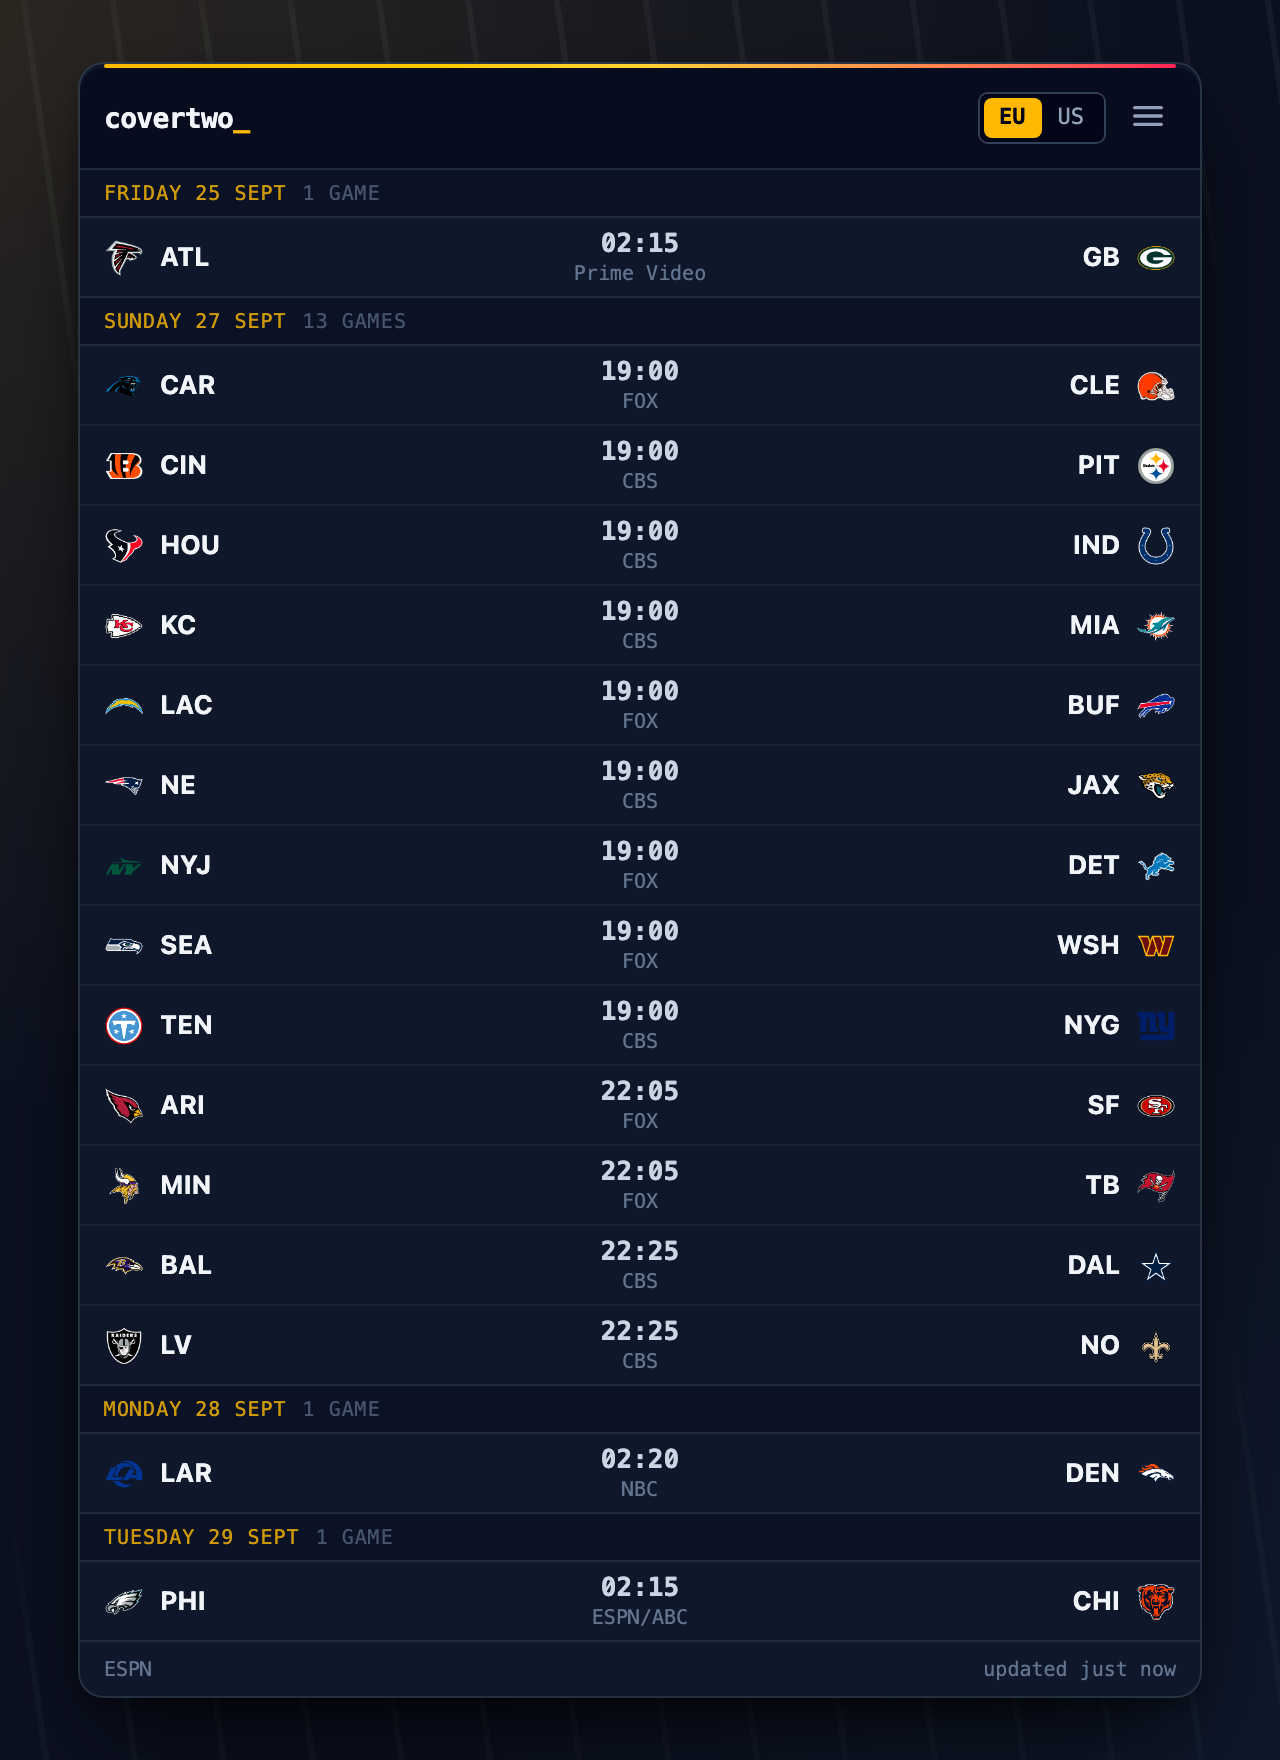
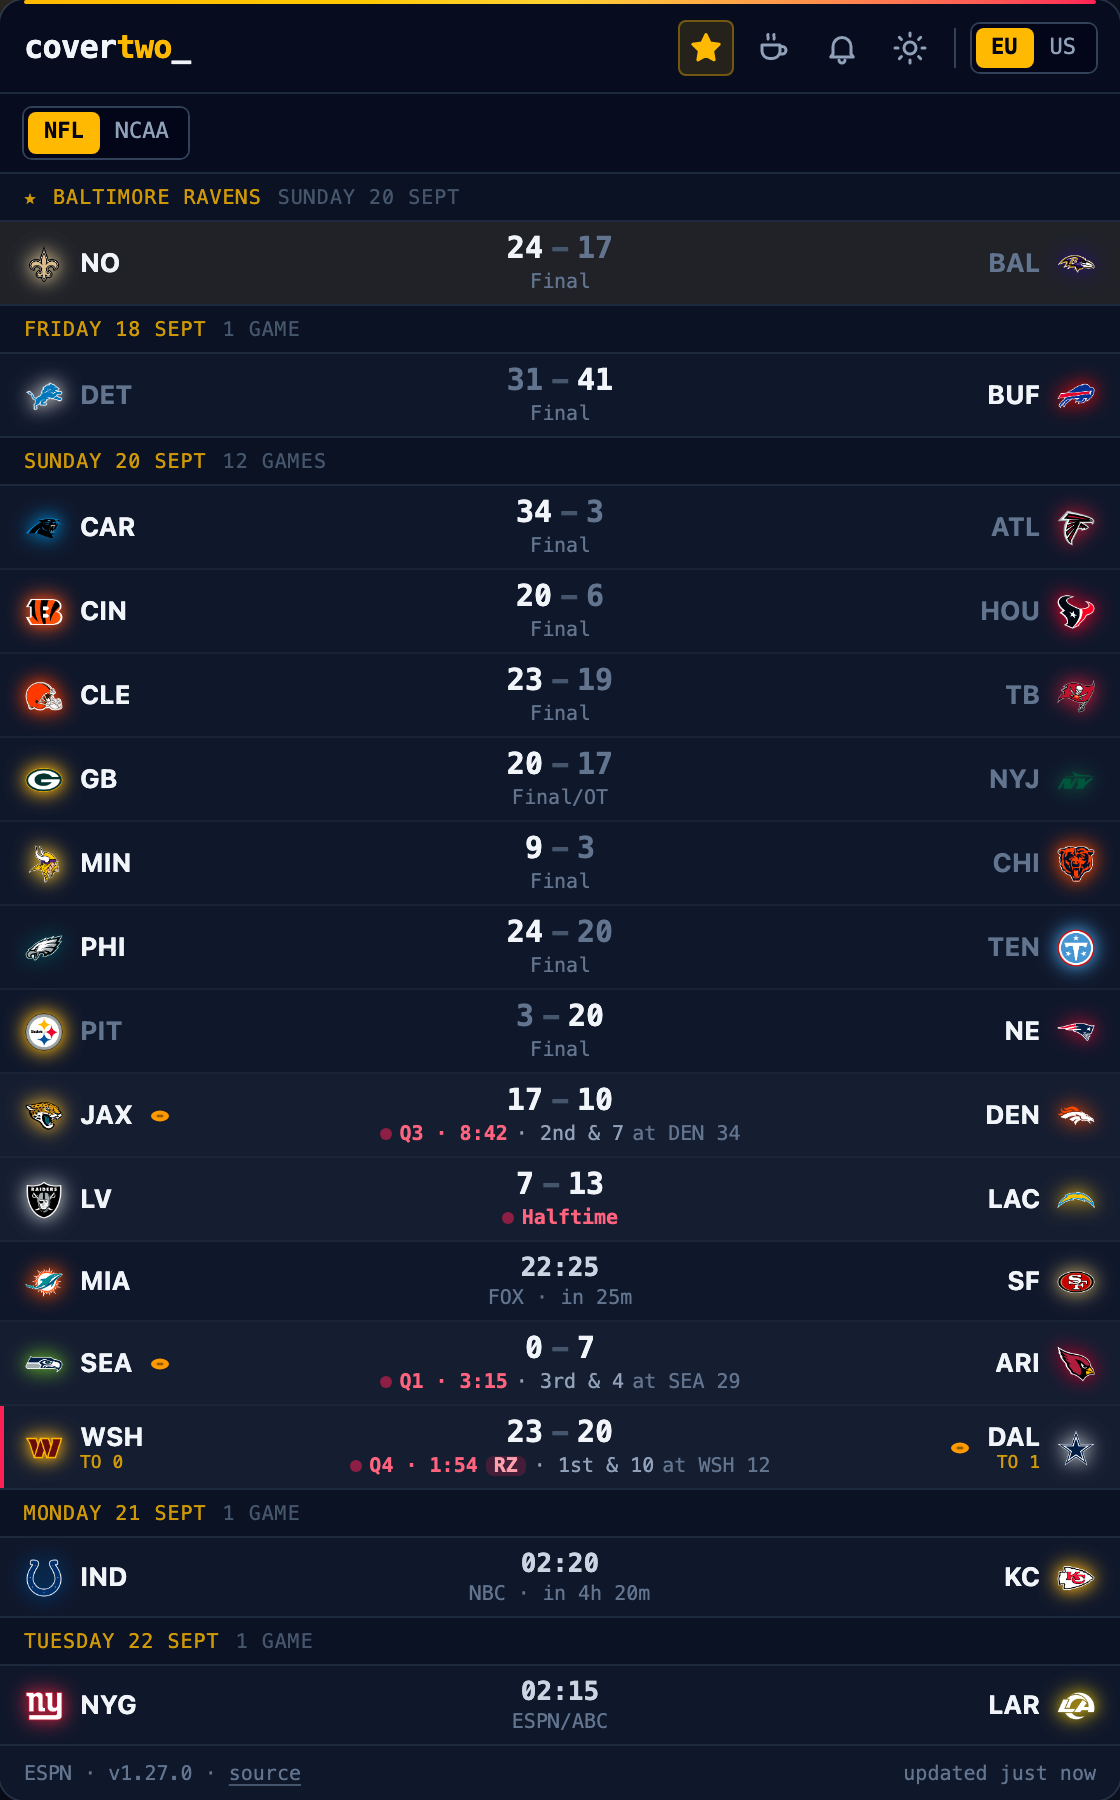
docs: README for launch: screenshots, features, alerts in the architecture (#236)
Closes #235

Launch prep for the README:

- **Intro:** no longer "a small, modest NFL live scoreboard". It's now
NFL and college, calm, with no ads and no account, plus a link to
`?demo`.
- **Screenshots:** a fresh desktop one (dark, the new header, live
rows), plus two phone shots: the alerts panel, and the light theme.
- **What it does:** a short feature list (college views and weeks, live
detail, your team, lock-screen alerts, the phone app and offline,
themes).
- **Architecture:** the text and diagram now include the alerts (cron,
the Alerts Durable Object, the push services, the service worker).
- **Not affiliated:** a short section saying covertwo isn't affiliated
with the NFL, the NCAA, ESPN or any team.

diff --git a/README.md b/README.md
@@ -5,36 +5,65 @@
 [![Deploy](https://img.shields.io/github/deployments/moudlajs/covertwo/github-pages?label=deploy)](https://github.com/moudlajs/covertwo/deployments/github-pages)
 [![License: MIT](https://img.shields.io/github/license/moudlajs/covertwo)](LICENSE)
 
-A small, modest NFL live scoreboard. One compact row per game, grouped by
-day, with a Europe/US time toggle. A widget, not a website.
+A calm NFL and college football scoreboard. One compact row per game,
+grouped by day, in European or US time. No ads, no account, no video: just
+the scores, a widget rather than a website.
 
-**Live:** https://moudlajs.github.io/covertwo/
+**Live:** https://moudlajs.github.io/covertwo/ (or [`?demo`](https://moudlajs.github.io/covertwo/?demo) for a Sunday frozen mid-game)
 
-<img src="docs/screenshot.png" alt="covertwo showing a week of NFL games grouped by day, with kickoff times in Prague time" width="560">
+<img src="docs/screenshot.png" alt="covertwo in dark mode: a week of NFL games grouped by day, with live games showing down and distance, and the favourite team pinned on top" width="560">
+
+<p>
+  <img src="docs/screenshot-alerts.png" alt="covertwo on a phone with the alerts panel open: switches for your team's scores, kickoff and final, close finishes and college upsets" width="270">
+  <img src="docs/screenshot-light.png" alt="covertwo on a phone in the light theme" width="270">
+</p>
+
+## What it does
+
+- **NFL and college**: college as the Top 25 or all FBS games; any week of the
+  season, including the playoff rounds before their matchups are set.
+- **Live detail, kept calm**: the score, clock, down and distance, red zone and
+  possession in the row; tap a game for quarters, leaders and the last play.
+- **Your team** (★) pinned to the top and highlighted; every team's logo glows
+  in its own colours.
+- **Lock-screen alerts** (🔔), even with covertwo closed: your team's scores,
+  kickoff and final, close finishes, college upsets. Each one is optional.
+- **An app on your phone**: add it to the home screen for the full-screen app,
+  keep the screen on (☕) while it's open, and see the last scores offline.
+- **Light and dark** themes (☀), EU or US time.
 
 ## Architecture
 
-A static site on GitHub Pages plus one tiny Cloudflare Worker. ESPN's API
-rejects browser requests from other sites, so the Worker fetches it
-server-side, caches it for ~15s and adds CORS headers.
+A static site on GitHub Pages plus one small Cloudflare Worker on the free
+plan. ESPN's API rejects browser requests from other sites, so the Worker
+fetches it server-side, caches it for ~15s (every visitor shares one upstream
+request) and adds CORS headers. The same Worker runs the lock-screen alerts:
+a cron every minute has one Durable Object look at the games that matter, spot
+touchdowns, finals and close finishes, and send them through the phones' push
+services.
 
 ```mermaid
 flowchart LR
   subgraph Browser
-    App[covertwo<br/>React SPA]
-    LS[(localStorage<br/>time mode)]
+    App[covertwo<br/>React PWA]
+    SW[service worker<br/>offline + alerts]
   end
-  Worker[Cloudflare Worker<br/>proxy + 15s cache]
-  ESPN[ESPN scoreboard API<br/>site.api.espn.com]
-  CDN[ESPN CDN<br/>team logos]
+  subgraph Worker[Cloudflare Worker]
+    Proxy[proxy<br/>15s cache]
+    Alerts[(Alerts<br/>Durable Object)]
+    Cron((cron<br/>every minute))
+  end
+  ESPN[ESPN scoreboard API]
+  Push[Apple / Google<br/>push services]
   subgraph GitHub
     Repo[main branch] --> Actions[GitHub Actions] --> Pages[GitHub Pages]
   end
   Pages -- static files --> App
-  App -- "GET /nfl/scoreboard<br/>(30s while live)" --> Worker
-  Worker --> ESPN
-  App -- img --> CDN
-  App <--> LS
+  App -- "scoreboard<br/>(30s while live)" --> Proxy --> ESPN
+  App -- "subscribe / choices" --> Alerts
+  Cron --> Alerts -- "only while games are on" --> ESPN
+  Alerts -- "touchdown, final, …" --> Push --> SW
+  App <--> SW
 ```
 
 ## Development workflow
@@ -112,6 +141,12 @@ To redeploy without a release, run the **Deploy** workflow manually.
 
 See the [milestones](https://github.com/moudlajs/covertwo/milestones).
 Contributing rules are in [CONTRIBUTING.md](CONTRIBUTING.md).
+
+## Not affiliated
+
+covertwo is a hobby project, not affiliated with the NFL, the NCAA, ESPN or
+any team. Scores come from ESPN's public scoreboard; team names and logos
+belong to their owners.
 
 ## License
 
